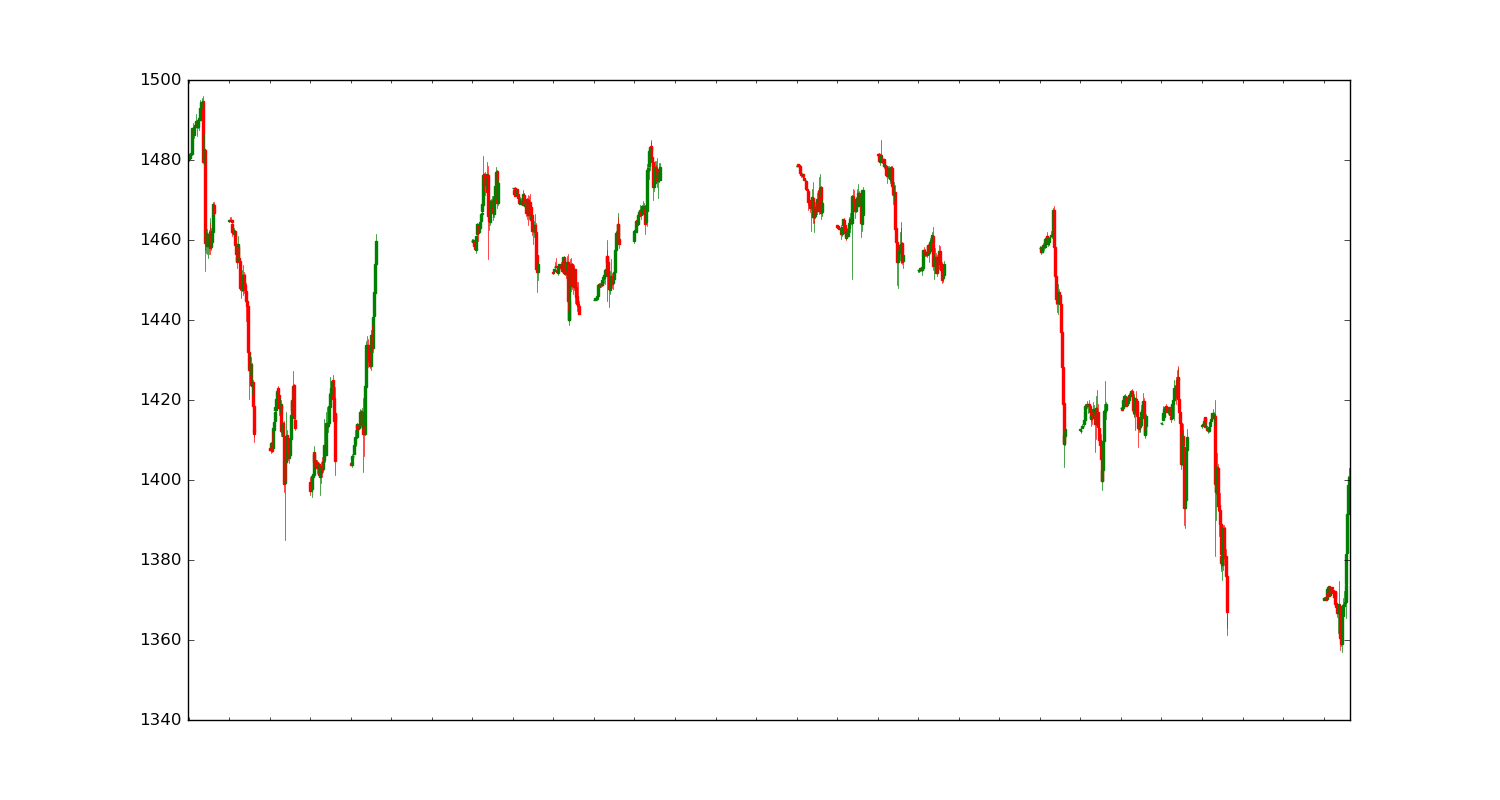
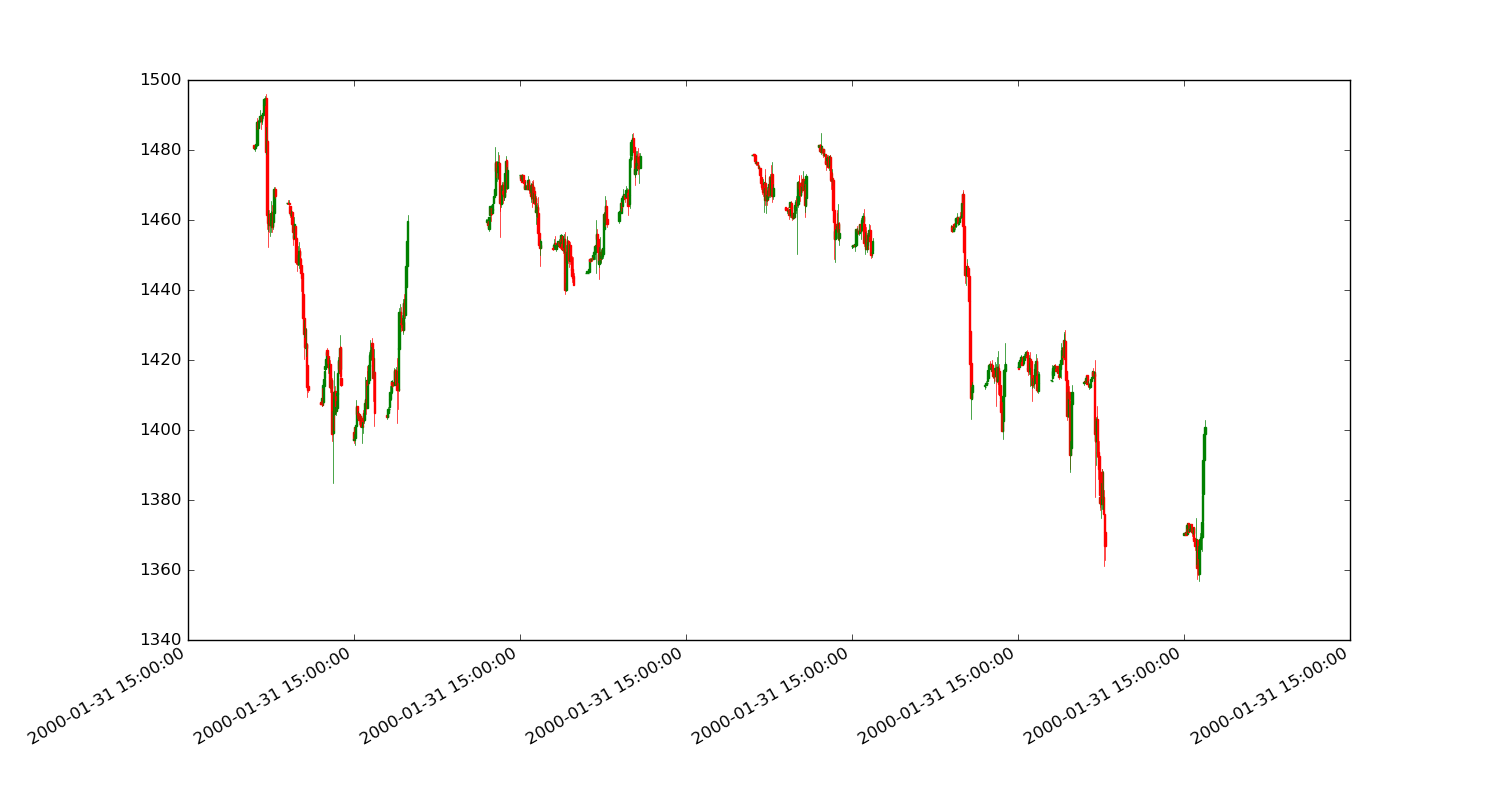
fff

diff --git a/analize/charting_data.py b/analize/charting_data.py
@@ -1,6 +1,7 @@
 import datetime
 
 import matplotlib.pyplot as plt
+import matplotlib.ticker as ticker
 import numpy as np
 import pandas as pd
 from pylab import date2num
@@ -15,24 +16,33 @@ for i in range(1):  # len(df.columns)):
     price['DT'] = pd.to_datetime(price['DT'])
     price['num_date'] = price['DT'].apply(date2num)
     
-    dayFormatter = DateFormatter('%d')
-    mondays = WeekdayLocator(MONDAY)
-    alldays = DayLocator() 
+    # dayFormatter = DateFormatter('%d')
+    # mondays = WeekdayLocator(MONDAY)
+    # alldays = DayLocator()
+
+    N = len(price)
+    ind = np.arange(N)
+
+    def format_date(x, pos=None):
+        thisind = np.clip(int(x + 0.5), 0, N - 1)
+        return price['DT'][thisind]
 
     quotes = price[['num_date','O','L','H','C']].dropna()
-    weekday_quotes = [tuple([i]+list(quote[1:])) for i, quote in enumerate(quotes)]
+    # weekday_quotes = [tuple([i]+list(quote[1:])) for i, quote in enumerate(quotes)]
     
     fig, ax = plt.subplots()
     fig.set_size_inches((15,8))
-    ax.xaxis.set_major_locator(mondays)
-    ax.xaxis.set_minor_locator(alldays)
-    ax.xaxis.set_major_formatter(dayFormatter)
+    # ax.xaxis.set_major_locator(mondays)
+    # ax.xaxis.set_minor_locator(alldays)
+    # ax.xaxis.set_major_formatter(dayFormatter)
     candlestick_ohlc(ax, quotes.values, width=0.05, colorup='g', colordown='r')
-    ax.xaxis_date()
-    ax.set_xticks(range(11111111111, len(weekday_quotes), 5))
-    ax.set_xticklabels([num2date(weekday_quotes[index][0]).strftime('%b-%d') for index in ax.get_xticks()])
-    ax.autoscale_view()
-    plt.setp(plt.gca().get_xticklabels(), rotation=45, horizontalalignment='right')
+    # ax.xaxis_date()
+    # ax.set_xticks(range(11111111111, len(weekday_quotes), 5))
+    # ax.set_xticklabels([num2date(weekday_quotes[index][0]).strftime('%b-%d') for index in ax.get_xticks()])
+    # ax.autoscale_view()
+    # plt.setp(plt.gca().get_xticklabels(), rotation=45, horizontalalignment='right')
+    ax.xaxis.set_major_formatter(ticker.FuncFormatter(format_date))
+    fig.autofmt_xdate()
     name = "{}-{}.png".format(price['DT'][0].year, price['DT'][0].month)
     plt.savefig(name)
 
